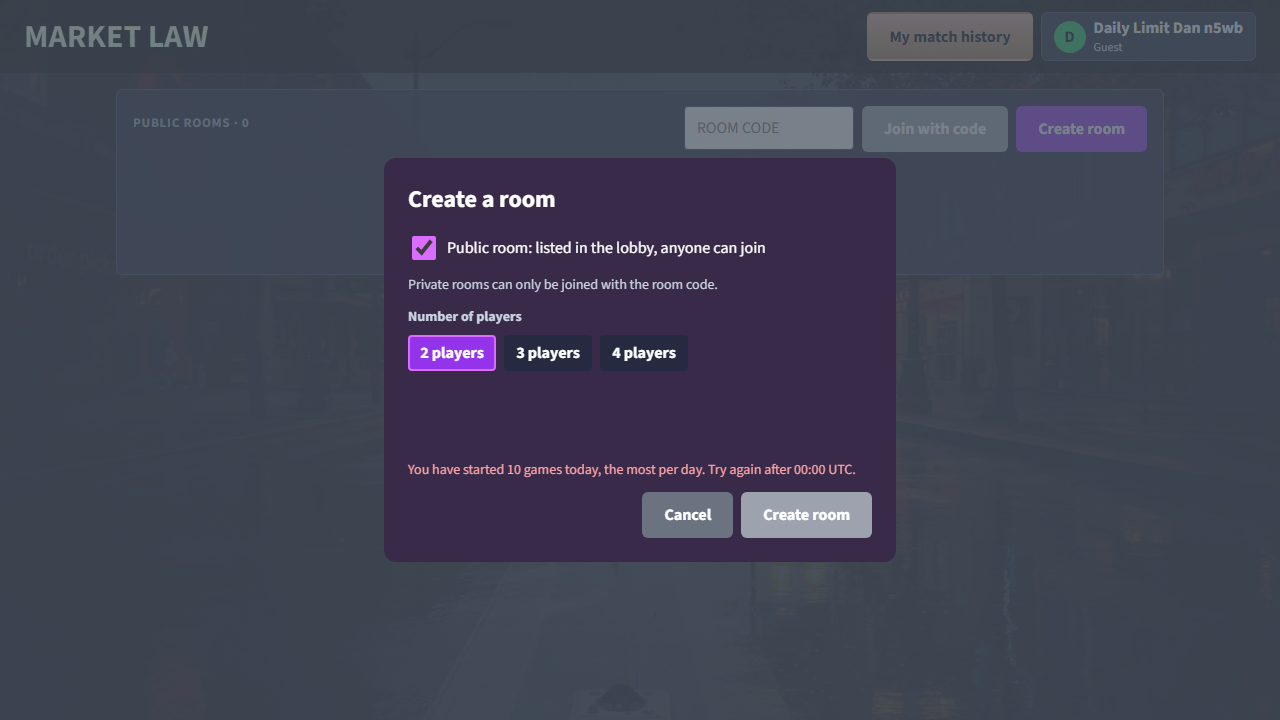
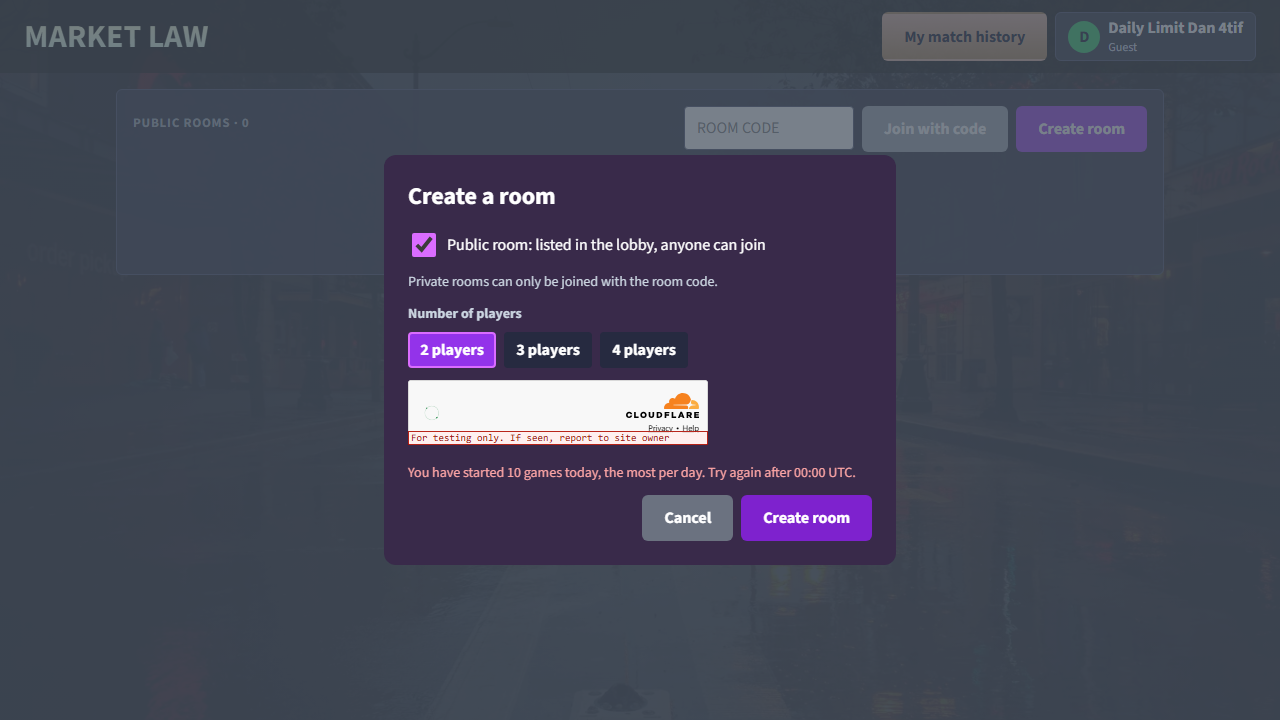
BUG FIX: Daily limit browser test waits for the Create room button to settle before the screen check

Changed region(s): [[0.3125, 0.2139, 0.6875, 0.7944], [0.6562, 0.0, 0.9688, 0.0917]]

diff --git a/e2e/dailyLimits.spec.ts b/e2e/dailyLimits.spec.ts
@@ -11,6 +11,12 @@ import { SIGNING_IN_TEST_MS } from "./SIGNING_IN_TEST_MS";
 
 const STORED_TOKEN = v.object({ token: v.string() });
 
+async function waitForTransitionsToEnd(page: Page) {
+  await page.waitForFunction(() =>
+    document.getAnimations().every((animation) => animation.playState !== "running"),
+  );
+}
+
 async function tokenOf(page: Page): Promise<string> {
   const stored = await page.evaluate((key) => localStorage.getItem(key), SESSION_KEY);
   return v.parse(STORED_TOKEN, JSON.parse(stored ?? "null")).token;
@@ -39,6 +45,8 @@ test("a player who started 10 games today is told so when creating a room", asyn
   await expect(dialog.getByRole("alert")).toHaveText(
     "You have started 10 games today, the most per day. Try again after 00:00 UTC.",
   );
+  await expect(create).toBeEnabled({ timeout: HUMAN_CHECK_MS });
+  await waitForTransitionsToEnd(page);
   await expectScreenFits(page, "daily-limit", testInfo, true);
   await page.context().close();
 });

diff --git a/docs/plan/phase-25-game-records-and-match-history.md b/docs/plan/phase-25-game-records-and-match-history.md
@@ -326,6 +326,14 @@ These 10 scenarios are added to `harness/required.yaml` in this phase, by file a
     `accountSettings.spec.ts` and `bigCardSwitch.spec.ts` 9 of 9 passed. All failures were
     load; GitHub judges the full suite. No new check, so `docs/enforcement.md` is unchanged.
     Screenshots from these runs committed.
+  - GitHub run 43014962411 (`57d8f75`): check and six browser jobs green; "other tests 3 of 3"
+    failed in all three attempts at 2560x1440: twice `dailyLimits.spec.ts` (axe: the Create
+    room button's white text on the disabled grey, 2.53:1) and once `bigCardSwitch.spec.ts`
+    (109 ms against 100, a timing miss). The daily limit failure is a race in the test: after the
+    rejection the dialog starts a new human check, so the button is disabled and then enabled
+    again with a 120 ms background transition, and the screen check could land mid-transition.
+    The test now waits for the button to be enabled and for transitions to end before the screen
+    check (`BUG FIX` commit, no product change); it passes locally at all three sizes.
 - [ ] Release.
 
 ### Helper log
